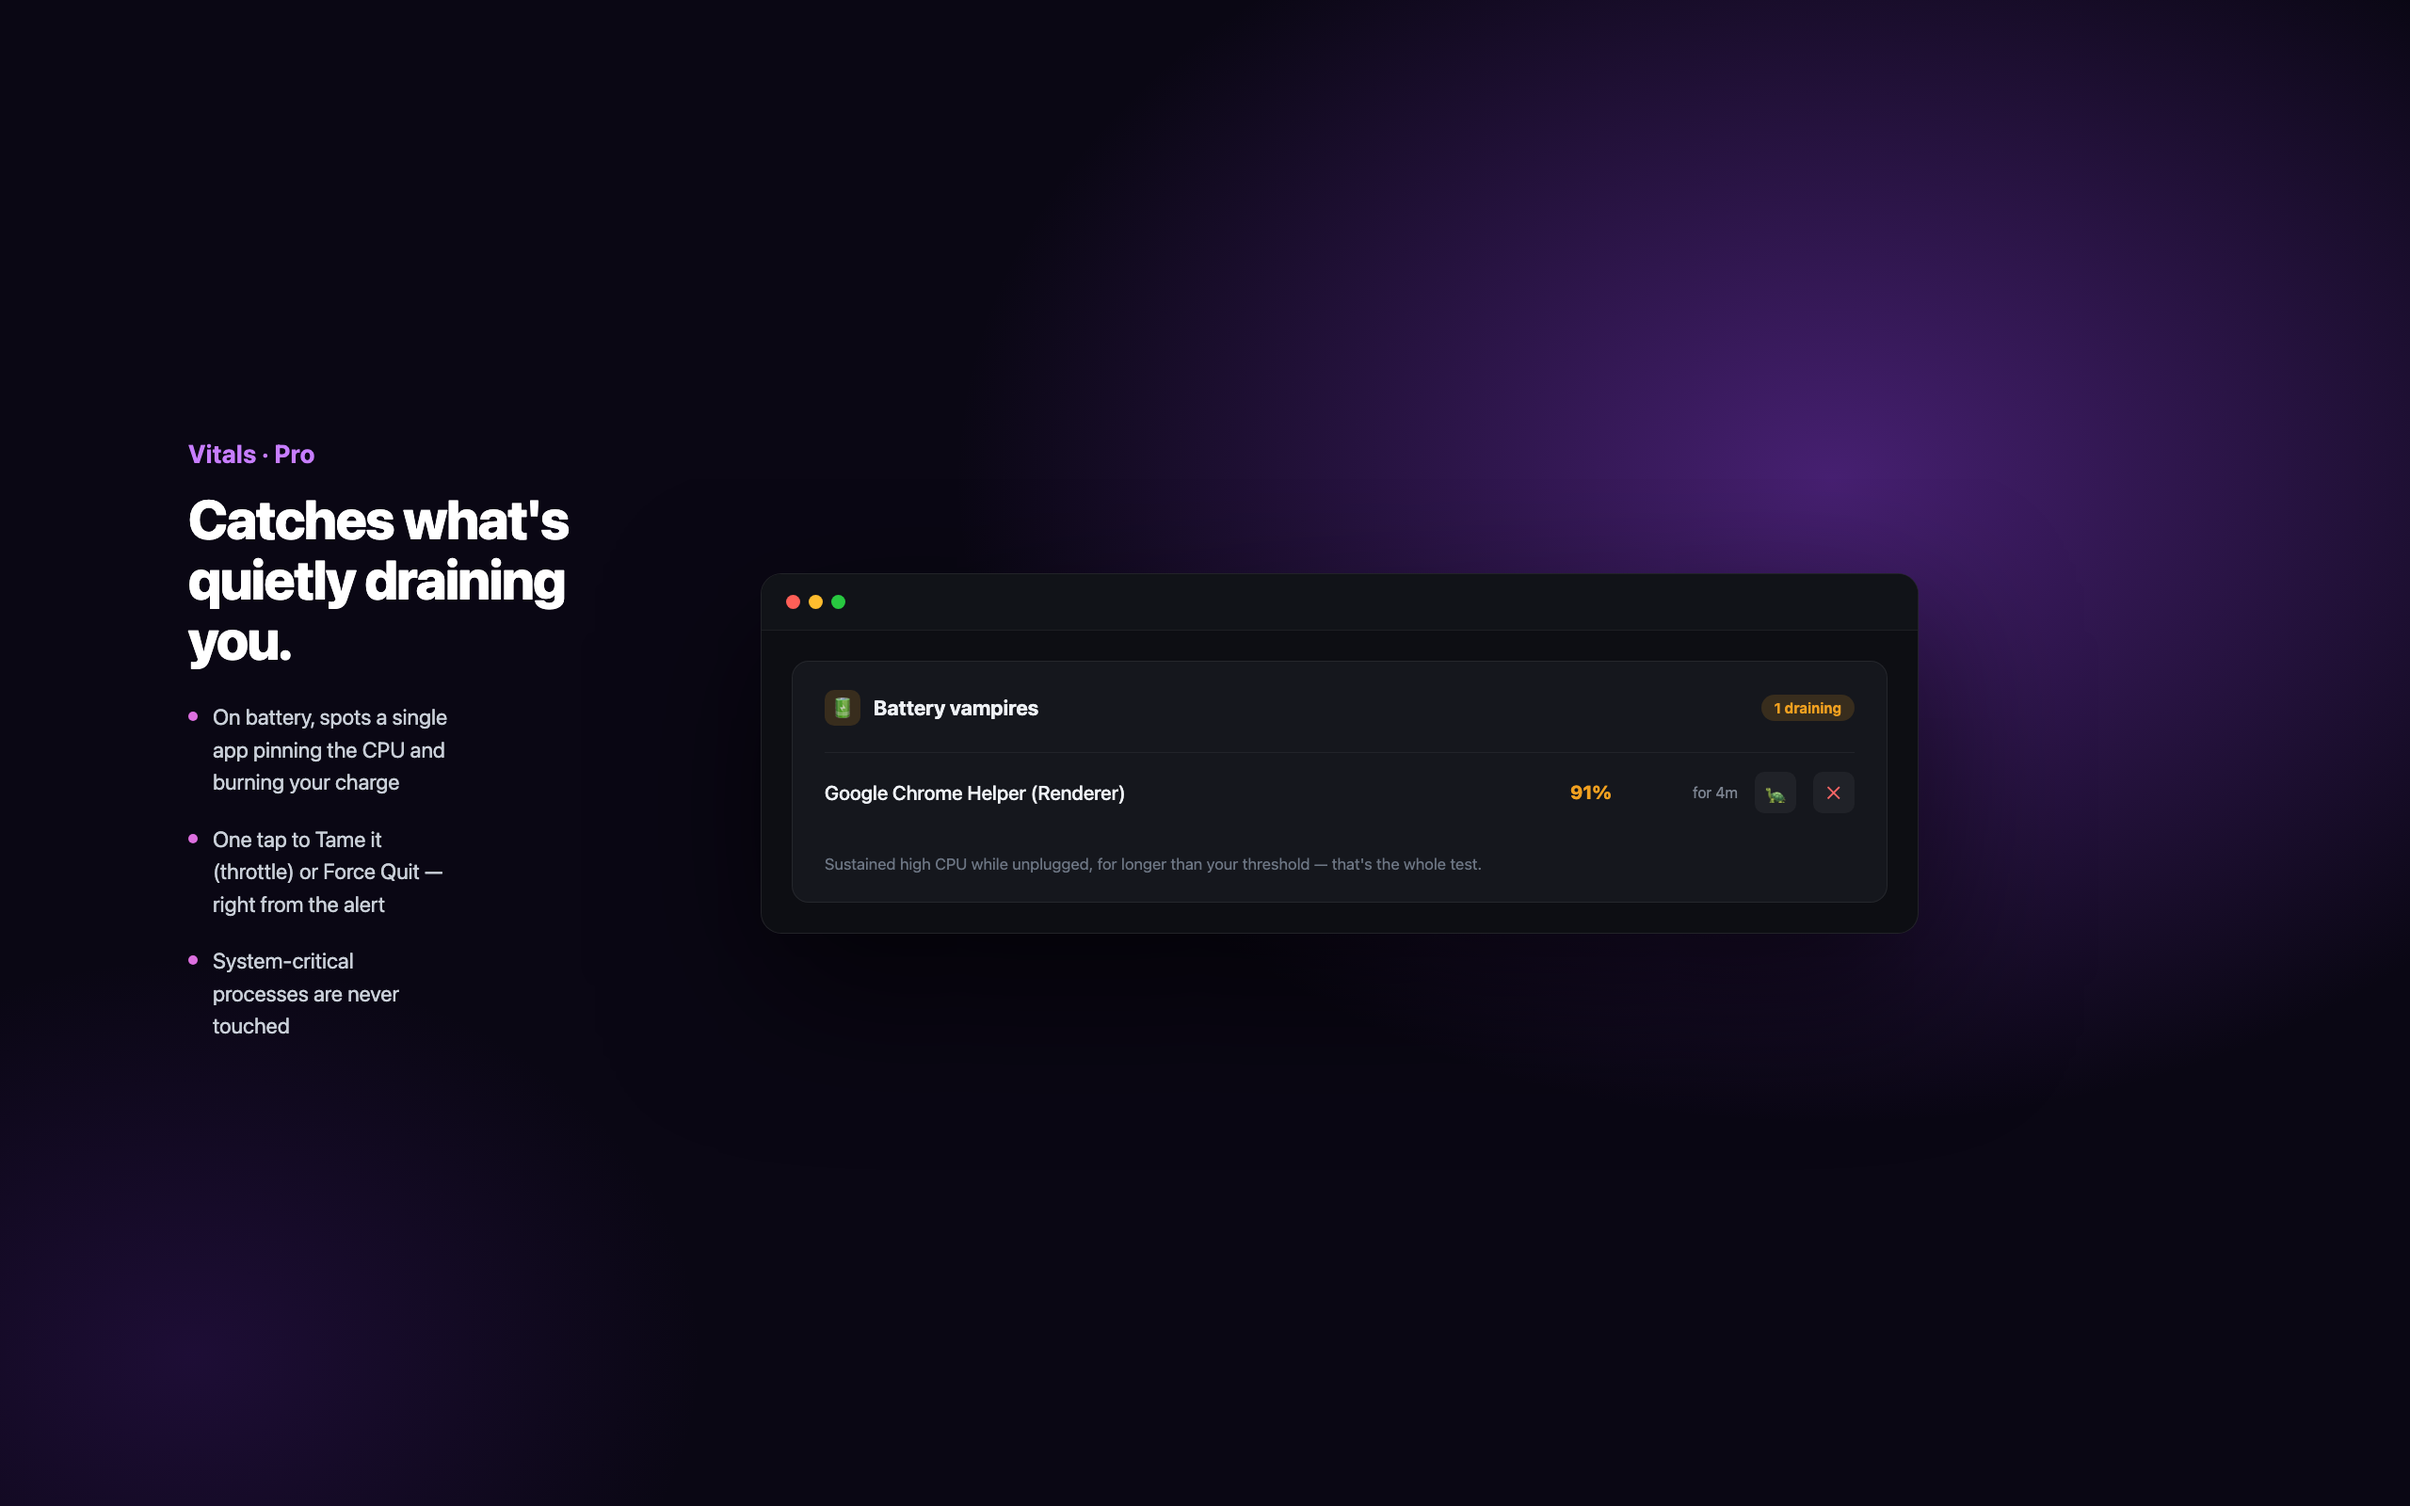
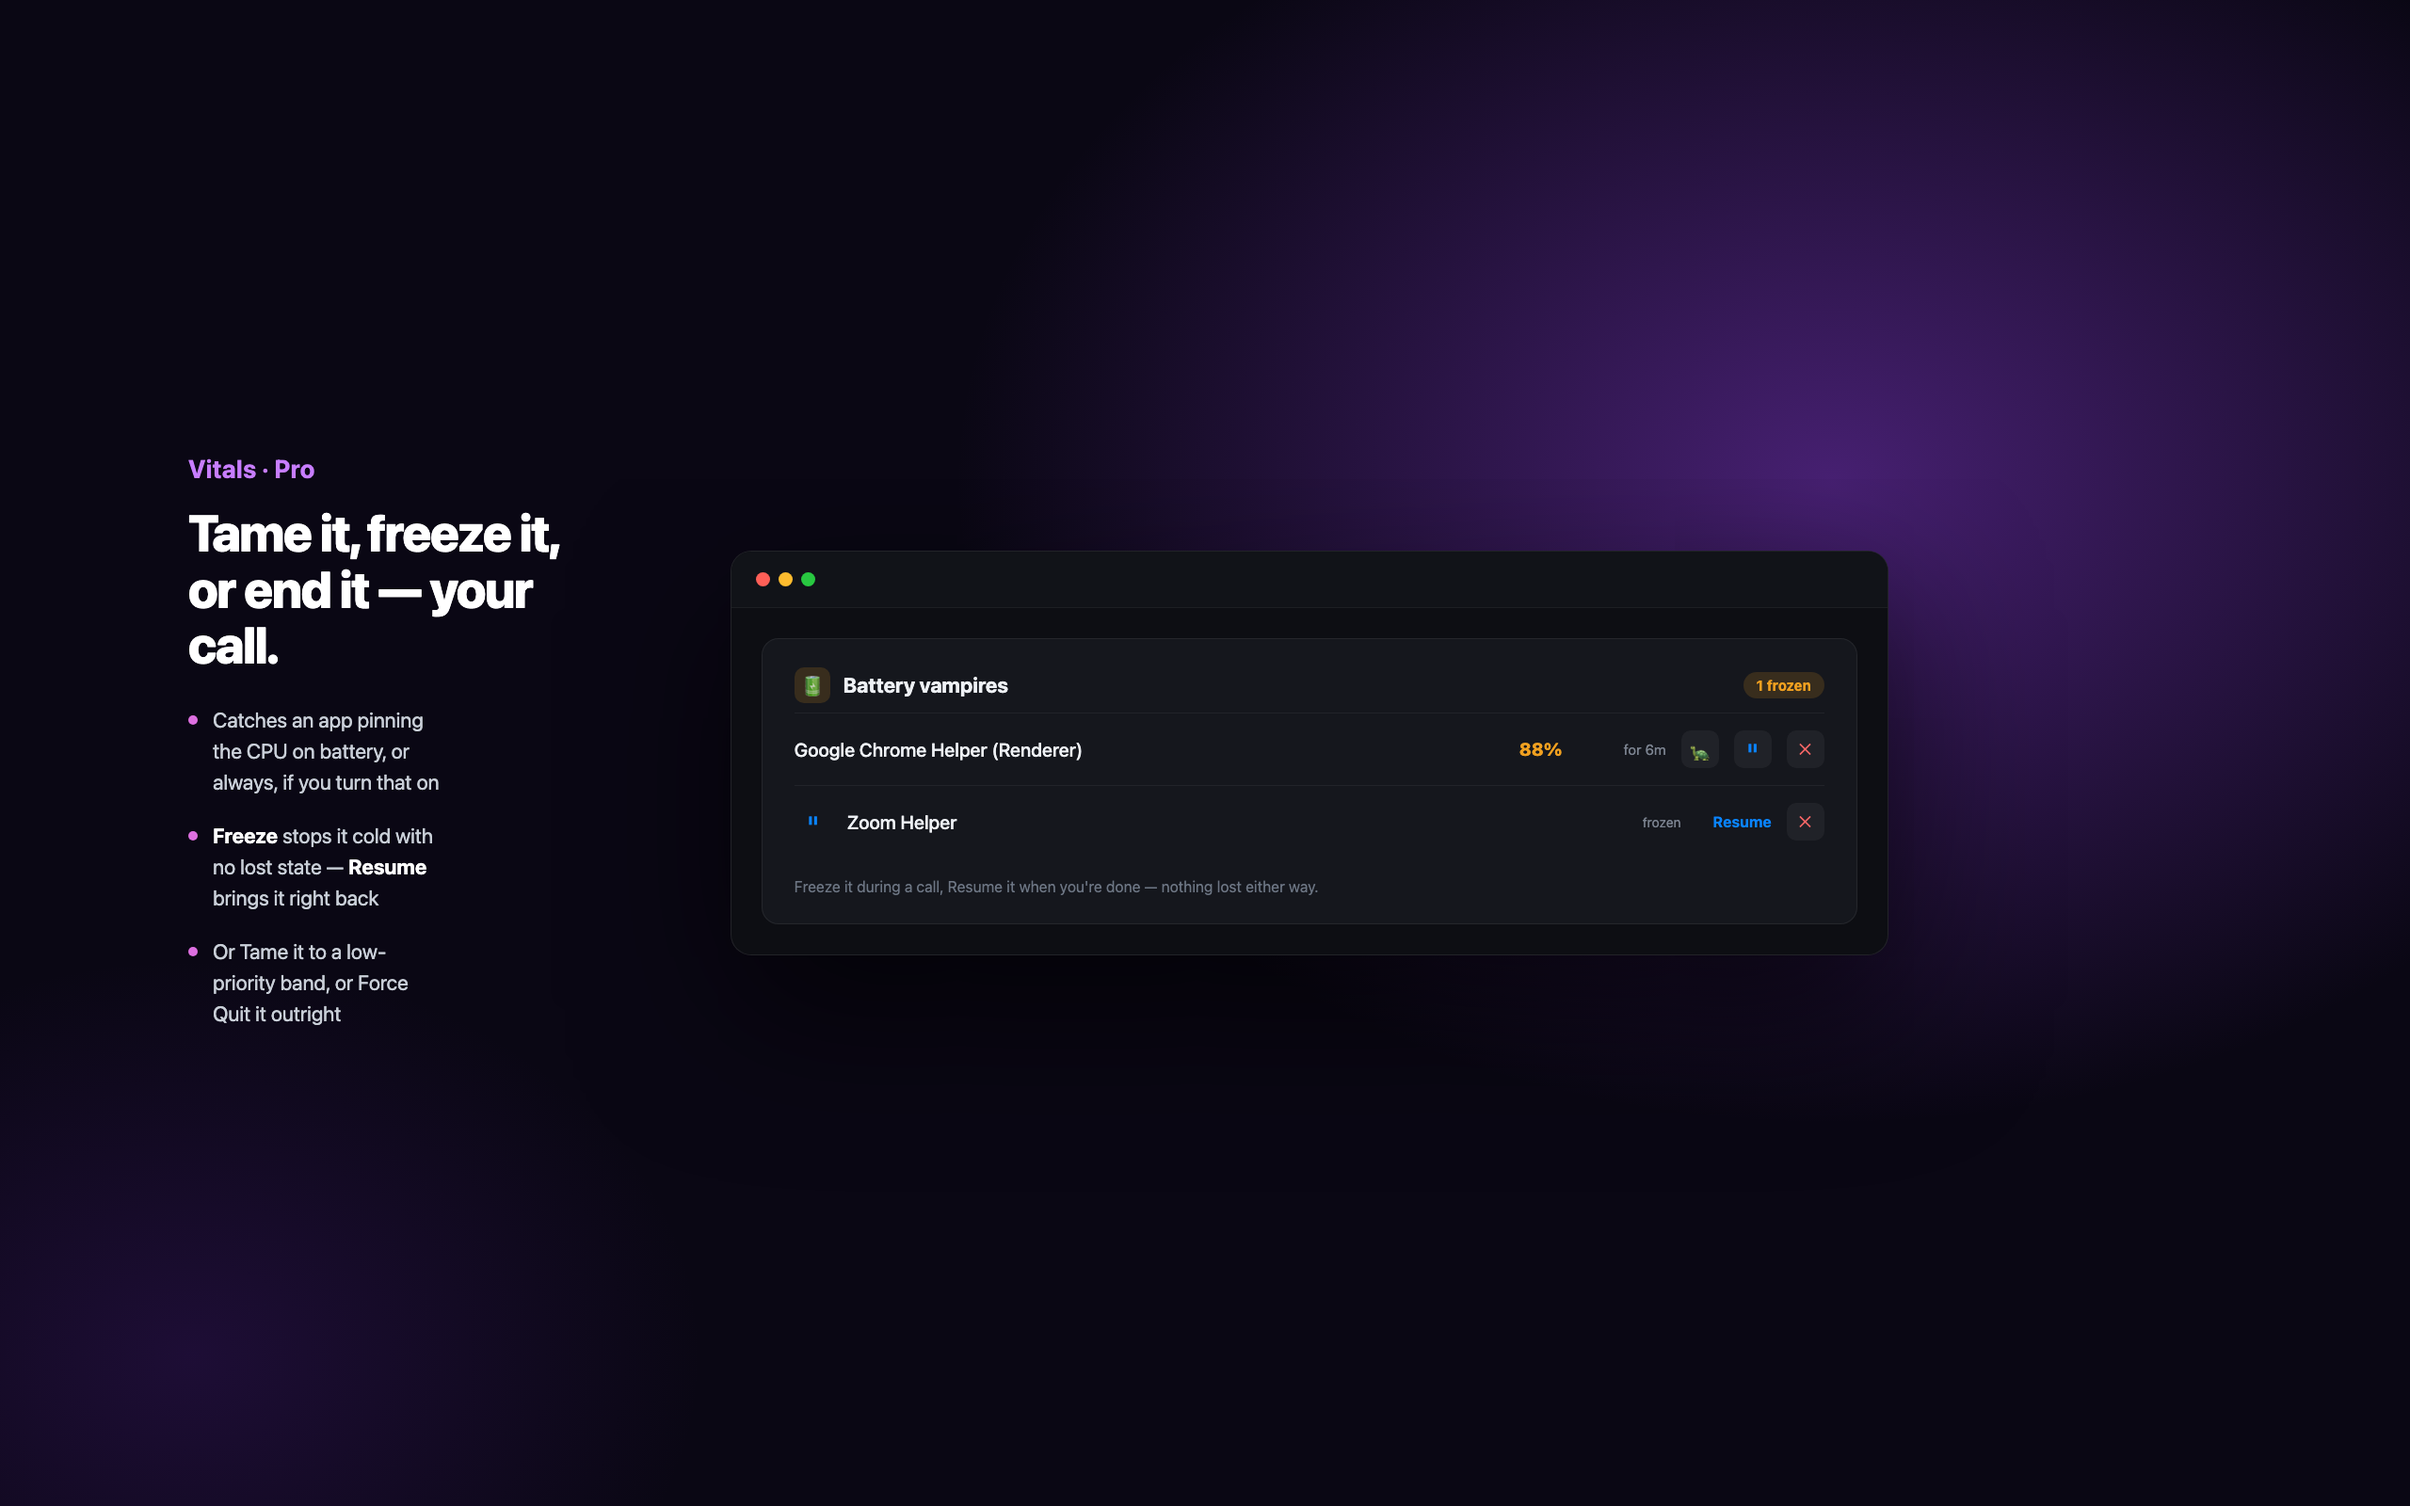
Add Guardian upgrades to the Vitals page: Freeze/Resume, sleep drain report, VRAM reclaim
Battery vampires card copy and screenshot now cover Freeze/Resume and the
always-on option, not just Tame/Force Quit. Two new feature cards and gallery
shots: Sleep drain report (battery lost while asleep, what held a wake lock)
and one-tap VRAM reclaim from the Model watch card. Synced into the
JSON-LD featureList and the llms.txt/llms-full.txt AI-agent files.

diff --git a/vitals/index.html b/vitals/index.html
@@ -234,7 +234,9 @@
         "30-day historical performance tracking",
         "S.M.A.R.T. disk health analysis",
         "Bluetooth and peripheral battery monitor",
-        "Battery vampire detector with one-tap Tame or Force Quit",
+        "Battery vampire detector with one-tap Tame, Freeze/Resume, or Force Quit — on battery or always",
+        "Sleep drain report: battery lost while asleep and what was holding a wake lock",
+        "One-tap VRAM reclaim for local-AI runtimes (Ollama, LM Studio, llama.cpp)",
         "Crash and kernel panic watcher with plain-English insights",
         "Customizable desktop widget",
         "100% on-device private processing with zero telemetry"
@@ -675,7 +677,8 @@
         <div class="fcard"><div class="fico">💥</div><h3>Crash &amp; panic watch</h3><p>Surfaces app crashes and kernel panics with a plain-English explanation of what actually happened.</p></div>
         <div class="fcard"><div class="fico">🖥</div><h3>Live desktop widget</h3><p>A floating, always-on-top panel that updates every second — not on a slow schedule. Drag it anywhere, expand it to the full dashboard, or jump to the overview window in one click.</p></div>
         <div class="fcard"><div class="fico">🔋</div><h3>Bluetooth &amp; peripherals</h3><p>Battery level for your connected keyboard, mouse, trackpad and headphones, right alongside your Mac's own battery.</p></div>
-        <div class="fcard"><div class="fico">🧛</div><h3>Battery vampires</h3><p>On battery, catches a single app quietly pinning the CPU and draining your charge — then Tame (throttle) or Force Quit it in one tap, right from the alert.</p></div>
+        <div class="fcard"><div class="fico">🧛</div><h3>Battery vampires</h3><p>Catches a single app quietly pinning the CPU and draining your charge — on battery, or always, if you turn that on. Tame it, Freeze it (and Resume later, nothing lost), or Force Quit it in one tap.</p></div>
+        <div class="fcard"><div class="fico">💤</div><h3>Sleep drain report</h3><p>Every sleep and wake, tracked — plus the battery it cost you and what was still holding a wake lock right as the lid closed. The answer to the backpack-hot, battery-drained mystery.</p></div>
         <div class="fcard"><div class="fico">🔔</div><h3>Smart alerts</h3><p>Customizable threshold alerts, with an optional push to your iPhone the moment something needs attention.</p></div>
         <div class="fcard"><div class="fico">🎨</div><h3>Deep customization</h3><p>Twelve themes, full menu-bar layout control, and a live desktop widget that matches how you like to work.</p></div>
       </div>
@@ -694,6 +697,7 @@
             <li><span class="ck">✓</span><span>Detects Ollama, LM Studio, llama.cpp, vLLM, Jan, GPT4All, KoboldCpp and more.</span></li>
             <li><span class="ck">✓</span><span>One-tap speed test reports real <strong>tokens/second</strong> — the number people actually compare models by.</span></li>
             <li><span class="ck">✓</span><span>Watches VRAM headroom and loaded-model details while you work.</span></li>
+            <li><span class="ck">✓</span><span>Forgot a model was loaded? <strong>Quit</strong> reclaims the VRAM in one tap — no Activity Monitor needed.</span></li>
             <li><span class="ck">✓</span><span>All local. It talks only to servers already on your machine — nothing is uploaded.</span></li>
           </ul>
         </div>
@@ -713,7 +717,9 @@
         <figure><img src="../assets/shots/05-network.png" alt="Network tools"><figcaption>Network quality, Wi-Fi scan &amp; per-app traffic</figcaption></figure>
         <figure><img src="../assets/shots/06-history.png" alt="30-day history"><figcaption>30 days of every metric, charted</figcaption></figure>
         <figure><img src="../assets/shots/04-energy.png" alt="Energy and battery"><figcaption>Live power draw &amp; energy by app</figcaption></figure>
-        <figure><img src="../assets/shots/10-vampire.png" alt="Battery vampire detector"><figcaption>Catches the app quietly draining your battery</figcaption></figure>
+        <figure><img src="../assets/shots/10-vampire.png" alt="Battery vampire detector with Tame, Freeze and Force Quit"><figcaption>Tame, Freeze &amp; Resume, or Force Quit — your call</figcaption></figure>
+        <figure><img src="../assets/shots/11-sleep-drain.png" alt="Sleep drain report"><figcaption>Who woke your Mac, and what it cost you</figcaption></figure>
+        <figure><img src="../assets/shots/12-vram-reclaim.png" alt="One-tap VRAM reclaim from Model watch"><figcaption>Forgot a model was loaded? Reclaim the VRAM in one tap</figcaption></figure>
         <figure><img src="../assets/shots/08-thermals.png" alt="Thermals and fans"><figcaption>Per-component temperatures &amp; fan control</figcaption></figure>
         <figure><img src="../assets/shots/09-themes.png" alt="Themes"><figcaption>Twelve themes to match your setup</figcaption></figure>
       </div>
